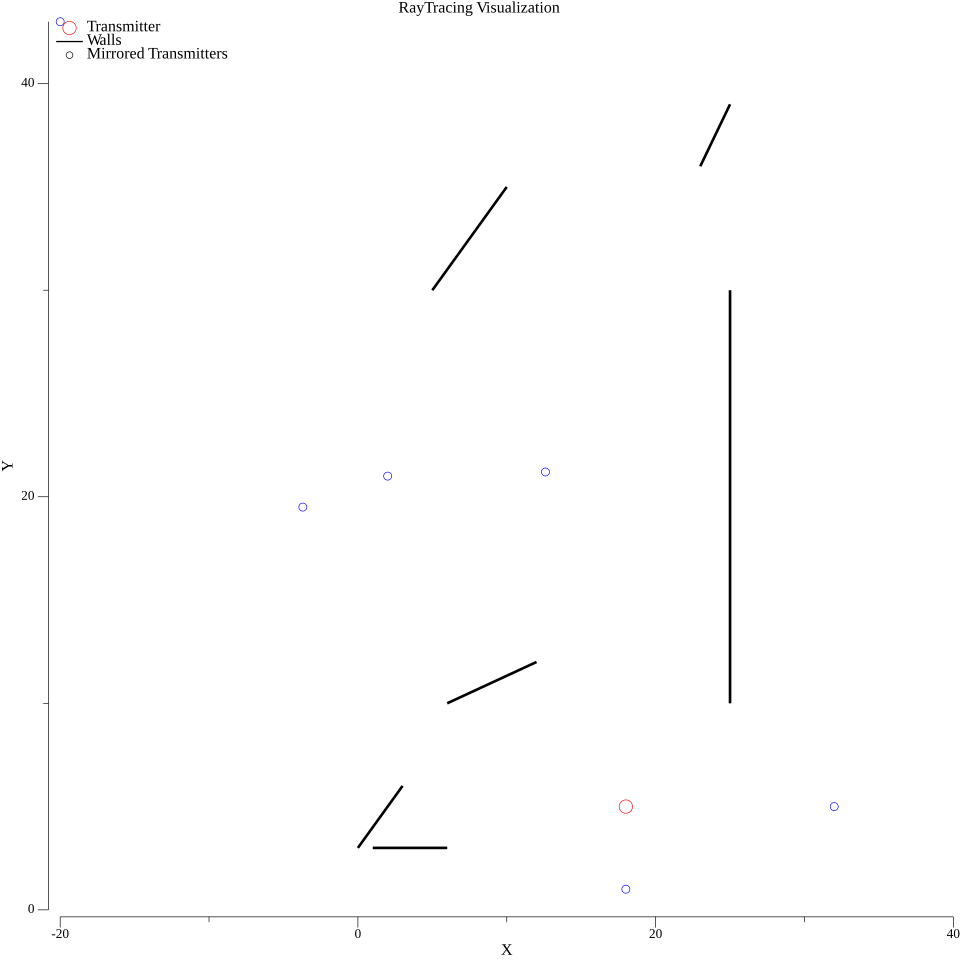
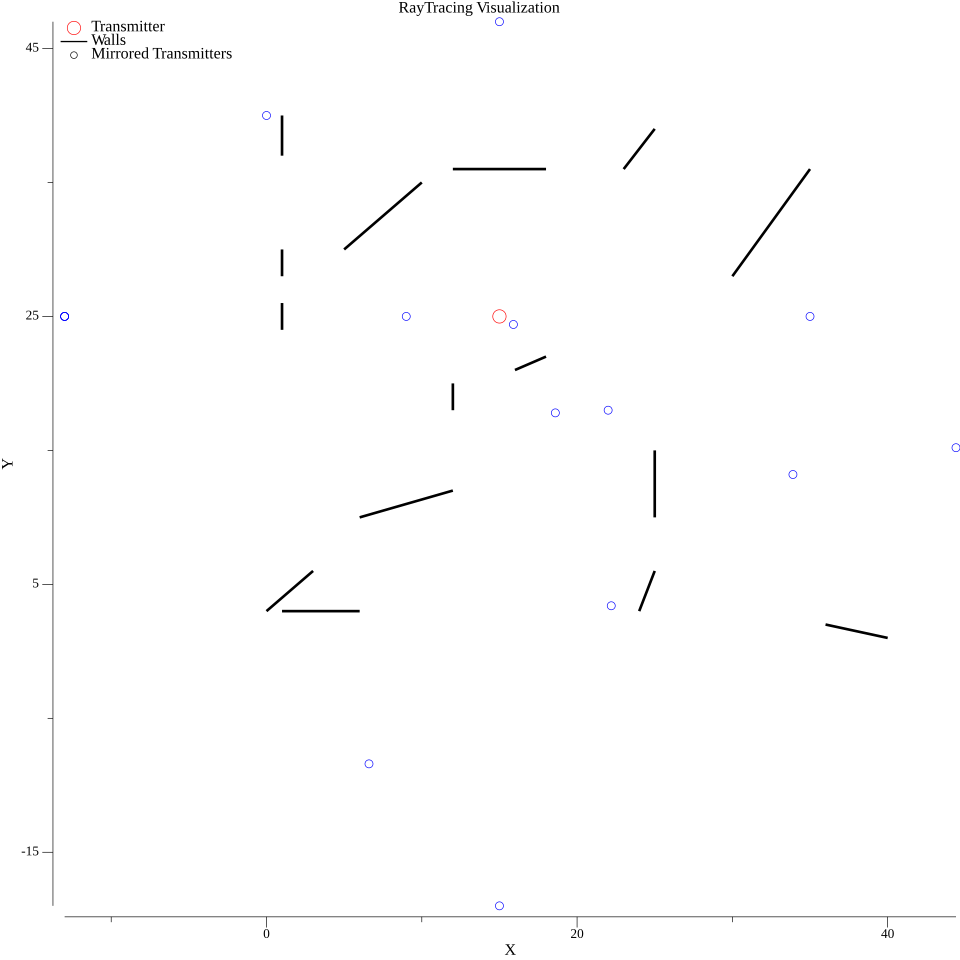
fix: more vectors added

diff --git a/backendGo/utils/2draytracing/main.go b/backendGo/utils/2draytracing/main.go
@@ -35,7 +35,7 @@ type RayTracing struct {
 }
 //create RayTracingObject
 func NewRayTracing(matrixDimensions Point, tPos Point, tPower float64, tFreq float64, rFactor float64, wallPos []Vector) *RayTracing {
-	step := 0.01
+	step := 0.1
 	rows := int(matrixDimensions.Y*(1/step))+1
 	cols := int(matrixDimensions.X*(1/step))+1
 	powerMap := make([][]float64, rows)
@@ -372,11 +372,11 @@ func getHeatmapColor(value float64) (uint8, uint8, uint8) {
 func main() {
 	start := time.Now()
 	matrixDimensions := Point{X:40, Y:40}
-	transmitterPos := Point{X:18, Y:5}
+	transmitterPos := Point{X:15, Y:25}
 	transmitterPower := 5.0 // mW
 	transmitterFreq := 3.4   // GHz
 	reflectionFactor := 0.7
-	walls := []Vector{{A:Point{X:0,Y:3}, B:Point{X:3,Y:6}}, {A:Point{X:1,Y:3}, B:Point{X:6,Y:3}}, {A:Point{X:6,Y:10}, B:Point{X:12,Y:12}},{A:Point{X:25,Y:10}, B:Point{X:25,Y:30}},{A:Point{X:5,Y:30}, B:Point{X:10,Y:35}},{A:Point{X:23,Y:36}, B:Point{X:25,Y:39}}}
+	walls := []Vector{{A:Point{X:0,Y:3}, B:Point{X:3,Y:6}}, {A:Point{X:1,Y:3}, B:Point{X:6,Y:3}}, {A:Point{X:6,Y:10}, B:Point{X:12,Y:12}},{A:Point{X:25,Y:10}, B:Point{X:25,Y:15}},{A:Point{X:5,Y:30}, B:Point{X:10,Y:35}},{A:Point{X:23,Y:36}, B:Point{X:25,Y:39}},{A:Point{X:1,Y:24}, B:Point{X:1,Y:26}},{A:Point{X:1,Y:28}, B:Point{X:1,Y:30}},{A:Point{X:1,Y:37}, B:Point{X:1,Y:40}},{A:Point{X:35,Y:36}, B:Point{X:30,Y:28}},{A:Point{X:40,Y:1}, B:Point{X:36,Y:2}},{A:Point{X:24,Y:3}, B:Point{X:25,Y:6}},{A:Point{X:16,Y:21}, B:Point{X:18,Y:22}},{A:Point{X:12,Y:18}, B:Point{X:12,Y:20}},{A:Point{X:18,Y:36}, B:Point{X:12,Y:36}}}
 
 	raytracing := NewRayTracing(matrixDimensions, transmitterPos, transmitterPower, transmitterFreq, reflectionFactor, walls)
 	fmt.Printf("%v \n", raytracing.MirroredTransmitters)
@@ -390,8 +390,6 @@ func main() {
     }
     fmt.Println("Visualization saved to raytracing.png")
 	heatmap := GenerateHeatmap(raytracing.PowerMap)
-    
-    // Zapisz do pliku
     f, _ := os.Create("heatmap.png")
     defer f.Close()
     png.Encode(f, heatmap)
